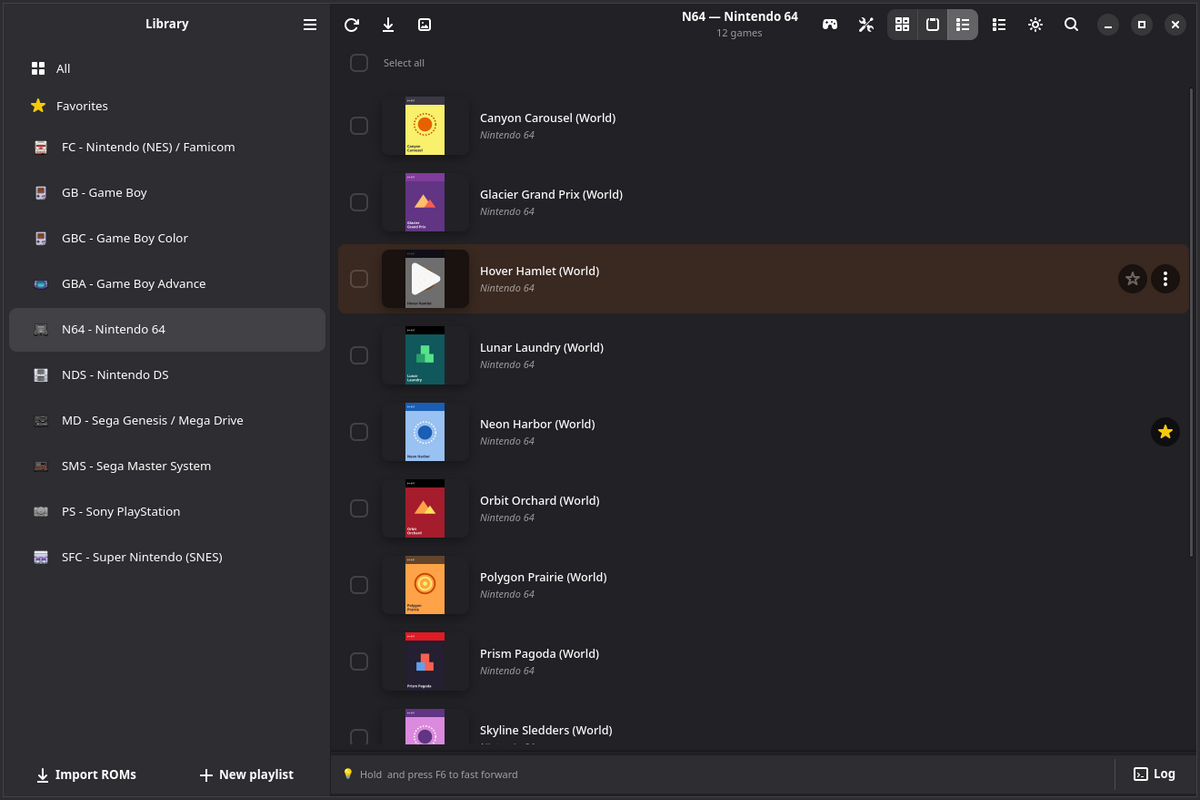
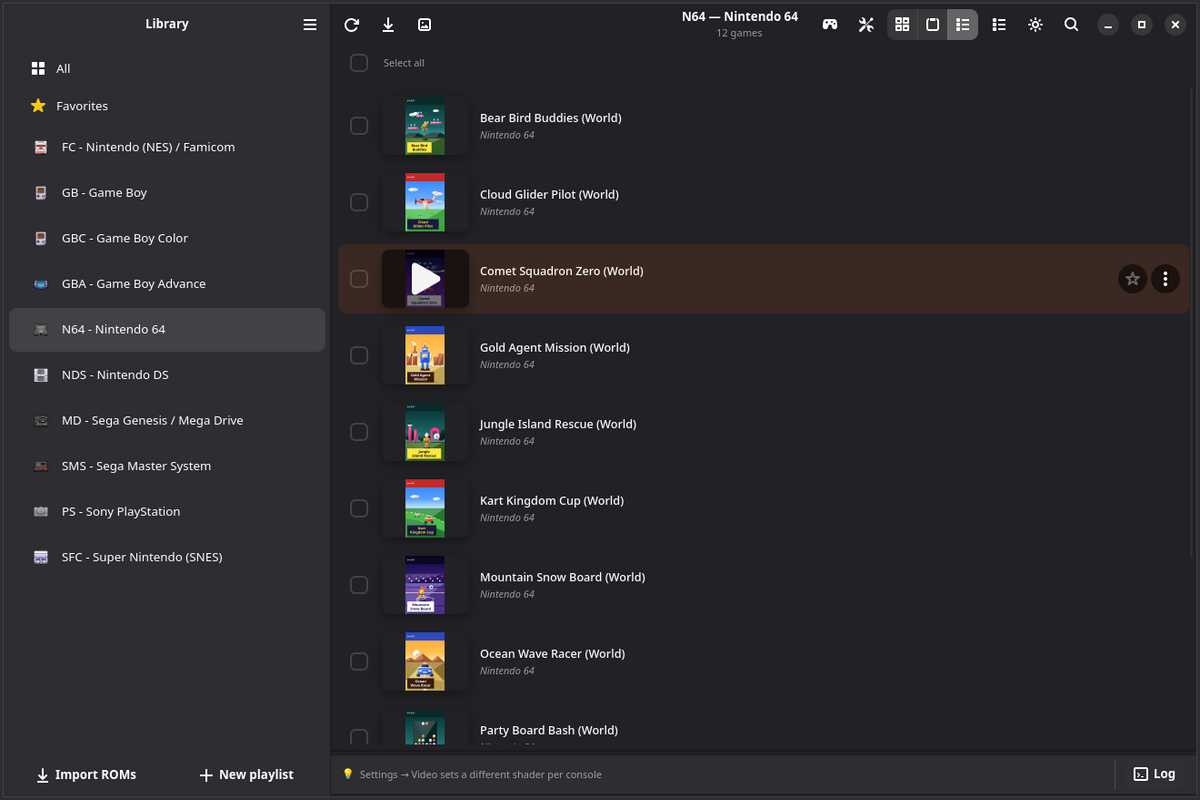
[issue-552] wip: re-shoot the README stills, carousel, cart wall and wizard

diff --git a/docs/de/index.html b/docs/de/index.html
@@ -1865,10 +1865,10 @@ flatpak install -y openemux io.github.guilhermefeitosa66.OpenEmux</code></pre>
       if (!wall) return;
       // Cartridge renders are 400 px wide; ratio = width / height.
       var CONSOLES = {
-        gba: { ratio: 400 / 230, games: ["acorn-arcade", "basalt-bells", "brass-beetles", "cactus-courier", "chalk-comets", "driftwood-diaries", "fennel-fields", "glass-canyon", "gondola-gambit", "hollow-harp", "ivy-ironworks", "kite-kingdom", "lemon-lightning", "lychee-lane", "maple-mosaic", "moss-knight", "nimbus-noodles", "pixel-pantry", "plum-parade", "pocket-planetarium", "pumice-patrol", "raincoat-rangers", "ripple-runners", "saltmarsh-sprint", "sorrel-speedway", "sparrow-signal", "tangerine-tides", "teacup-tempest", "tinker-tram", "velvet-vortex"] },
-        sfc: { ratio: 400 / 255, games: ["biscuit-brigade", "cinder-bay", "clockwork-orchard", "cobalt-caravan", "copper-lighthouse", "ferris-fortress", "granite-garden", "harbor-hopscotch", "hazel-hollow", "juniper-station", "kettle-knights", "lagoon-lullaby", "lantern-keep", "mango-monsoon", "marble-meadow-rally", "meadow-mechanic", "orchard-siege", "paprika-pass", "pebble-patrol", "puddle-pilots", "rooftop-regatta", "saffron-skyway", "spindle-spire", "sundial-saga", "thimble-quest", "tundra-tailors", "turnip-tactics", "velvet-glacier", "walnut-wanderers", "willow-circuit"] },
-        n64: { ratio: 400 / 257, games: ["canyon-carousel", "glacier-grand-prix", "hover-hamlet", "lunar-laundry", "neon-harbor", "orbit-orchard", "polygon-prairie", "prism-pagoda", "skyline-sledders", "thunder-teapot", "velvet-voltage", "zephyr-zoo"] },
-        md: { ratio: 400 / 271, games: ["blast-bayou", "chrome-canyon", "granite-gale", "harbor-havoc", "iron-iguana", "magma-mailman", "nitro-nectar", "rapid-reef", "static-sunset", "tidepool-racers", "turbo-tortoise", "voltage-valley"] }
+        gba: { ratio: 400 / 230, games: ["alien-ninja-squad", "anime-card-duel", "baseball-bash-kids", "bounce-ball-hero", "bubble-town-pop", "castle-siege-tactics", "cosmic-fox-pilot", "crystal-sword-saga", "desert-raider-kid", "disco-robot-dance", "dragon-egg-ranger", "fire-fist-fury", "gem-mine-mania", "go-kart-galaxy", "hamster-ball-run", "hip-hop-step", "jet-ski-splash", "knight-of-hearts", "laser-ship-omega", "mud-truck-mayhem", "ninja-shadow-path", "pocket-karate-champ", "robot-arena-clash", "ski-slope-slalom", "space-cadet-zero", "street-kick-brawl", "super-kart-turbo", "swamp-witch-house", "tiny-wizard-trail", "zombie-night-out"] },
+        sfc: { ratio: 400 / 255, games: ["alien-planet-quest", "ancient-sword-legend", "beach-volley-stars", "blade-of-the-crystal", "boxing-ring-champ", "brawl-city-streets", "bubble-pop-parade", "desert-tank-strike", "dragon-sky-rider", "dungeon-party-quest", "forest-spirit-path", "galaxy-star-patrol", "gem-drop-frenzy", "golf-course-pro", "haunted-manor-night", "jungle-vine-swing", "kart-cup-grand-prix", "magic-boot-hopper", "mecha-pilot-zero", "ninja-twin-strike", "rhythm-drum-party", "robot-man-x", "sky-fortress-siege", "super-kart-buddies", "the-car-racing-game", "the-fighter-game", "time-knight-saga", "turbo-highway-run", "wizard-tower-tales", "zero-grav-speedster"] },
+        n64: { ratio: 400 / 257, games: ["bear-bird-buddies", "cloud-glider-pilot", "comet-squadron-zero", "gold-agent-mission", "jungle-island-rescue", "kart-kingdom-cup", "mountain-snow-board", "ocean-wave-racer", "party-board-bash", "super-plumber-man-3d", "the-wrestling-match", "turbo-pod-racer"] },
+        md: { ratio: 400 / 271, games: ["barbarian-axe-quest", "coast-road-cruiser", "cyber-ninja-revenge", "funky-alien-groove", "gridiron-smash", "hyper-space-fighter", "jungle-heli-strike", "mutant-tomato-panic", "rage-city-brawl", "sword-force-tactics", "the-fighter-game-ii", "turbo-cheetah-dash"] }
       };
       // Top to bottom. SNES and GBA are the front rows (big, bright, fast);
       // N64 and Mega Drive sit behind them at the edges. speed is px/s at full

diff --git a/docs/es/index.html b/docs/es/index.html
@@ -1863,10 +1863,10 @@ flatpak install -y openemux io.github.guilhermefeitosa66.OpenEmux</code></pre>
       if (!wall) return;
       // Cartridge renders are 400 px wide; ratio = width / height.
       var CONSOLES = {
-        gba: { ratio: 400 / 230, games: ["acorn-arcade", "basalt-bells", "brass-beetles", "cactus-courier", "chalk-comets", "driftwood-diaries", "fennel-fields", "glass-canyon", "gondola-gambit", "hollow-harp", "ivy-ironworks", "kite-kingdom", "lemon-lightning", "lychee-lane", "maple-mosaic", "moss-knight", "nimbus-noodles", "pixel-pantry", "plum-parade", "pocket-planetarium", "pumice-patrol", "raincoat-rangers", "ripple-runners", "saltmarsh-sprint", "sorrel-speedway", "sparrow-signal", "tangerine-tides", "teacup-tempest", "tinker-tram", "velvet-vortex"] },
-        sfc: { ratio: 400 / 255, games: ["biscuit-brigade", "cinder-bay", "clockwork-orchard", "cobalt-caravan", "copper-lighthouse", "ferris-fortress", "granite-garden", "harbor-hopscotch", "hazel-hollow", "juniper-station", "kettle-knights", "lagoon-lullaby", "lantern-keep", "mango-monsoon", "marble-meadow-rally", "meadow-mechanic", "orchard-siege", "paprika-pass", "pebble-patrol", "puddle-pilots", "rooftop-regatta", "saffron-skyway", "spindle-spire", "sundial-saga", "thimble-quest", "tundra-tailors", "turnip-tactics", "velvet-glacier", "walnut-wanderers", "willow-circuit"] },
-        n64: { ratio: 400 / 257, games: ["canyon-carousel", "glacier-grand-prix", "hover-hamlet", "lunar-laundry", "neon-harbor", "orbit-orchard", "polygon-prairie", "prism-pagoda", "skyline-sledders", "thunder-teapot", "velvet-voltage", "zephyr-zoo"] },
-        md: { ratio: 400 / 271, games: ["blast-bayou", "chrome-canyon", "granite-gale", "harbor-havoc", "iron-iguana", "magma-mailman", "nitro-nectar", "rapid-reef", "static-sunset", "tidepool-racers", "turbo-tortoise", "voltage-valley"] }
+        gba: { ratio: 400 / 230, games: ["alien-ninja-squad", "anime-card-duel", "baseball-bash-kids", "bounce-ball-hero", "bubble-town-pop", "castle-siege-tactics", "cosmic-fox-pilot", "crystal-sword-saga", "desert-raider-kid", "disco-robot-dance", "dragon-egg-ranger", "fire-fist-fury", "gem-mine-mania", "go-kart-galaxy", "hamster-ball-run", "hip-hop-step", "jet-ski-splash", "knight-of-hearts", "laser-ship-omega", "mud-truck-mayhem", "ninja-shadow-path", "pocket-karate-champ", "robot-arena-clash", "ski-slope-slalom", "space-cadet-zero", "street-kick-brawl", "super-kart-turbo", "swamp-witch-house", "tiny-wizard-trail", "zombie-night-out"] },
+        sfc: { ratio: 400 / 255, games: ["alien-planet-quest", "ancient-sword-legend", "beach-volley-stars", "blade-of-the-crystal", "boxing-ring-champ", "brawl-city-streets", "bubble-pop-parade", "desert-tank-strike", "dragon-sky-rider", "dungeon-party-quest", "forest-spirit-path", "galaxy-star-patrol", "gem-drop-frenzy", "golf-course-pro", "haunted-manor-night", "jungle-vine-swing", "kart-cup-grand-prix", "magic-boot-hopper", "mecha-pilot-zero", "ninja-twin-strike", "rhythm-drum-party", "robot-man-x", "sky-fortress-siege", "super-kart-buddies", "the-car-racing-game", "the-fighter-game", "time-knight-saga", "turbo-highway-run", "wizard-tower-tales", "zero-grav-speedster"] },
+        n64: { ratio: 400 / 257, games: ["bear-bird-buddies", "cloud-glider-pilot", "comet-squadron-zero", "gold-agent-mission", "jungle-island-rescue", "kart-kingdom-cup", "mountain-snow-board", "ocean-wave-racer", "party-board-bash", "super-plumber-man-3d", "the-wrestling-match", "turbo-pod-racer"] },
+        md: { ratio: 400 / 271, games: ["barbarian-axe-quest", "coast-road-cruiser", "cyber-ninja-revenge", "funky-alien-groove", "gridiron-smash", "hyper-space-fighter", "jungle-heli-strike", "mutant-tomato-panic", "rage-city-brawl", "sword-force-tactics", "the-fighter-game-ii", "turbo-cheetah-dash"] }
       };
       // Top to bottom. SNES and GBA are the front rows (big, bright, fast);
       // N64 and Mega Drive sit behind them at the edges. speed is px/s at full

diff --git a/docs/fr/index.html b/docs/fr/index.html
@@ -1864,10 +1864,10 @@ flatpak install -y openemux io.github.guilhermefeitosa66.OpenEmux</code></pre>
       if (!wall) return;
       // Cartridge renders are 400 px wide; ratio = width / height.
       var CONSOLES = {
-        gba: { ratio: 400 / 230, games: ["acorn-arcade", "basalt-bells", "brass-beetles", "cactus-courier", "chalk-comets", "driftwood-diaries", "fennel-fields", "glass-canyon", "gondola-gambit", "hollow-harp", "ivy-ironworks", "kite-kingdom", "lemon-lightning", "lychee-lane", "maple-mosaic", "moss-knight", "nimbus-noodles", "pixel-pantry", "plum-parade", "pocket-planetarium", "pumice-patrol", "raincoat-rangers", "ripple-runners", "saltmarsh-sprint", "sorrel-speedway", "sparrow-signal", "tangerine-tides", "teacup-tempest", "tinker-tram", "velvet-vortex"] },
-        sfc: { ratio: 400 / 255, games: ["biscuit-brigade", "cinder-bay", "clockwork-orchard", "cobalt-caravan", "copper-lighthouse", "ferris-fortress", "granite-garden", "harbor-hopscotch", "hazel-hollow", "juniper-station", "kettle-knights", "lagoon-lullaby", "lantern-keep", "mango-monsoon", "marble-meadow-rally", "meadow-mechanic", "orchard-siege", "paprika-pass", "pebble-patrol", "puddle-pilots", "rooftop-regatta", "saffron-skyway", "spindle-spire", "sundial-saga", "thimble-quest", "tundra-tailors", "turnip-tactics", "velvet-glacier", "walnut-wanderers", "willow-circuit"] },
-        n64: { ratio: 400 / 257, games: ["canyon-carousel", "glacier-grand-prix", "hover-hamlet", "lunar-laundry", "neon-harbor", "orbit-orchard", "polygon-prairie", "prism-pagoda", "skyline-sledders", "thunder-teapot", "velvet-voltage", "zephyr-zoo"] },
-        md: { ratio: 400 / 271, games: ["blast-bayou", "chrome-canyon", "granite-gale", "harbor-havoc", "iron-iguana", "magma-mailman", "nitro-nectar", "rapid-reef", "static-sunset", "tidepool-racers", "turbo-tortoise", "voltage-valley"] }
+        gba: { ratio: 400 / 230, games: ["alien-ninja-squad", "anime-card-duel", "baseball-bash-kids", "bounce-ball-hero", "bubble-town-pop", "castle-siege-tactics", "cosmic-fox-pilot", "crystal-sword-saga", "desert-raider-kid", "disco-robot-dance", "dragon-egg-ranger", "fire-fist-fury", "gem-mine-mania", "go-kart-galaxy", "hamster-ball-run", "hip-hop-step", "jet-ski-splash", "knight-of-hearts", "laser-ship-omega", "mud-truck-mayhem", "ninja-shadow-path", "pocket-karate-champ", "robot-arena-clash", "ski-slope-slalom", "space-cadet-zero", "street-kick-brawl", "super-kart-turbo", "swamp-witch-house", "tiny-wizard-trail", "zombie-night-out"] },
+        sfc: { ratio: 400 / 255, games: ["alien-planet-quest", "ancient-sword-legend", "beach-volley-stars", "blade-of-the-crystal", "boxing-ring-champ", "brawl-city-streets", "bubble-pop-parade", "desert-tank-strike", "dragon-sky-rider", "dungeon-party-quest", "forest-spirit-path", "galaxy-star-patrol", "gem-drop-frenzy", "golf-course-pro", "haunted-manor-night", "jungle-vine-swing", "kart-cup-grand-prix", "magic-boot-hopper", "mecha-pilot-zero", "ninja-twin-strike", "rhythm-drum-party", "robot-man-x", "sky-fortress-siege", "super-kart-buddies", "the-car-racing-game", "the-fighter-game", "time-knight-saga", "turbo-highway-run", "wizard-tower-tales", "zero-grav-speedster"] },
+        n64: { ratio: 400 / 257, games: ["bear-bird-buddies", "cloud-glider-pilot", "comet-squadron-zero", "gold-agent-mission", "jungle-island-rescue", "kart-kingdom-cup", "mountain-snow-board", "ocean-wave-racer", "party-board-bash", "super-plumber-man-3d", "the-wrestling-match", "turbo-pod-racer"] },
+        md: { ratio: 400 / 271, games: ["barbarian-axe-quest", "coast-road-cruiser", "cyber-ninja-revenge", "funky-alien-groove", "gridiron-smash", "hyper-space-fighter", "jungle-heli-strike", "mutant-tomato-panic", "rage-city-brawl", "sword-force-tactics", "the-fighter-game-ii", "turbo-cheetah-dash"] }
       };
       // Top to bottom. SNES and GBA are the front rows (big, bright, fast);
       // N64 and Mega Drive sit behind them at the edges. speed is px/s at full

diff --git a/docs/index.html b/docs/index.html
@@ -1863,10 +1863,10 @@ flatpak install -y openemux io.github.guilhermefeitosa66.OpenEmux</code></pre>
       if (!wall) return;
       // Cartridge renders are 400 px wide; ratio = width / height.
       var CONSOLES = {
-        gba: { ratio: 400 / 230, games: ["acorn-arcade", "basalt-bells", "brass-beetles", "cactus-courier", "chalk-comets", "driftwood-diaries", "fennel-fields", "glass-canyon", "gondola-gambit", "hollow-harp", "ivy-ironworks", "kite-kingdom", "lemon-lightning", "lychee-lane", "maple-mosaic", "moss-knight", "nimbus-noodles", "pixel-pantry", "plum-parade", "pocket-planetarium", "pumice-patrol", "raincoat-rangers", "ripple-runners", "saltmarsh-sprint", "sorrel-speedway", "sparrow-signal", "tangerine-tides", "teacup-tempest", "tinker-tram", "velvet-vortex"] },
-        sfc: { ratio: 400 / 255, games: ["biscuit-brigade", "cinder-bay", "clockwork-orchard", "cobalt-caravan", "copper-lighthouse", "ferris-fortress", "granite-garden", "harbor-hopscotch", "hazel-hollow", "juniper-station", "kettle-knights", "lagoon-lullaby", "lantern-keep", "mango-monsoon", "marble-meadow-rally", "meadow-mechanic", "orchard-siege", "paprika-pass", "pebble-patrol", "puddle-pilots", "rooftop-regatta", "saffron-skyway", "spindle-spire", "sundial-saga", "thimble-quest", "tundra-tailors", "turnip-tactics", "velvet-glacier", "walnut-wanderers", "willow-circuit"] },
-        n64: { ratio: 400 / 257, games: ["canyon-carousel", "glacier-grand-prix", "hover-hamlet", "lunar-laundry", "neon-harbor", "orbit-orchard", "polygon-prairie", "prism-pagoda", "skyline-sledders", "thunder-teapot", "velvet-voltage", "zephyr-zoo"] },
-        md: { ratio: 400 / 271, games: ["blast-bayou", "chrome-canyon", "granite-gale", "harbor-havoc", "iron-iguana", "magma-mailman", "nitro-nectar", "rapid-reef", "static-sunset", "tidepool-racers", "turbo-tortoise", "voltage-valley"] }
+        gba: { ratio: 400 / 230, games: ["alien-ninja-squad", "anime-card-duel", "baseball-bash-kids", "bounce-ball-hero", "bubble-town-pop", "castle-siege-tactics", "cosmic-fox-pilot", "crystal-sword-saga", "desert-raider-kid", "disco-robot-dance", "dragon-egg-ranger", "fire-fist-fury", "gem-mine-mania", "go-kart-galaxy", "hamster-ball-run", "hip-hop-step", "jet-ski-splash", "knight-of-hearts", "laser-ship-omega", "mud-truck-mayhem", "ninja-shadow-path", "pocket-karate-champ", "robot-arena-clash", "ski-slope-slalom", "space-cadet-zero", "street-kick-brawl", "super-kart-turbo", "swamp-witch-house", "tiny-wizard-trail", "zombie-night-out"] },
+        sfc: { ratio: 400 / 255, games: ["alien-planet-quest", "ancient-sword-legend", "beach-volley-stars", "blade-of-the-crystal", "boxing-ring-champ", "brawl-city-streets", "bubble-pop-parade", "desert-tank-strike", "dragon-sky-rider", "dungeon-party-quest", "forest-spirit-path", "galaxy-star-patrol", "gem-drop-frenzy", "golf-course-pro", "haunted-manor-night", "jungle-vine-swing", "kart-cup-grand-prix", "magic-boot-hopper", "mecha-pilot-zero", "ninja-twin-strike", "rhythm-drum-party", "robot-man-x", "sky-fortress-siege", "super-kart-buddies", "the-car-racing-game", "the-fighter-game", "time-knight-saga", "turbo-highway-run", "wizard-tower-tales", "zero-grav-speedster"] },
+        n64: { ratio: 400 / 257, games: ["bear-bird-buddies", "cloud-glider-pilot", "comet-squadron-zero", "gold-agent-mission", "jungle-island-rescue", "kart-kingdom-cup", "mountain-snow-board", "ocean-wave-racer", "party-board-bash", "super-plumber-man-3d", "the-wrestling-match", "turbo-pod-racer"] },
+        md: { ratio: 400 / 271, games: ["barbarian-axe-quest", "coast-road-cruiser", "cyber-ninja-revenge", "funky-alien-groove", "gridiron-smash", "hyper-space-fighter", "jungle-heli-strike", "mutant-tomato-panic", "rage-city-brawl", "sword-force-tactics", "the-fighter-game-ii", "turbo-cheetah-dash"] }
       };
       // Top to bottom. SNES and GBA are the front rows (big, bright, fast);
       // N64 and Mega Drive sit behind them at the edges. speed is px/s at full

diff --git a/docs/ja/index.html b/docs/ja/index.html
@@ -1863,10 +1863,10 @@ flatpak install -y openemux io.github.guilhermefeitosa66.OpenEmux</code></pre>
       if (!wall) return;
       // Cartridge renders are 400 px wide; ratio = width / height.
       var CONSOLES = {
-        gba: { ratio: 400 / 230, games: ["acorn-arcade", "basalt-bells", "brass-beetles", "cactus-courier", "chalk-comets", "driftwood-diaries", "fennel-fields", "glass-canyon", "gondola-gambit", "hollow-harp", "ivy-ironworks", "kite-kingdom", "lemon-lightning", "lychee-lane", "maple-mosaic", "moss-knight", "nimbus-noodles", "pixel-pantry", "plum-parade", "pocket-planetarium", "pumice-patrol", "raincoat-rangers", "ripple-runners", "saltmarsh-sprint", "sorrel-speedway", "sparrow-signal", "tangerine-tides", "teacup-tempest", "tinker-tram", "velvet-vortex"] },
-        sfc: { ratio: 400 / 255, games: ["biscuit-brigade", "cinder-bay", "clockwork-orchard", "cobalt-caravan", "copper-lighthouse", "ferris-fortress", "granite-garden", "harbor-hopscotch", "hazel-hollow", "juniper-station", "kettle-knights", "lagoon-lullaby", "lantern-keep", "mango-monsoon", "marble-meadow-rally", "meadow-mechanic", "orchard-siege", "paprika-pass", "pebble-patrol", "puddle-pilots", "rooftop-regatta", "saffron-skyway", "spindle-spire", "sundial-saga", "thimble-quest", "tundra-tailors", "turnip-tactics", "velvet-glacier", "walnut-wanderers", "willow-circuit"] },
-        n64: { ratio: 400 / 257, games: ["canyon-carousel", "glacier-grand-prix", "hover-hamlet", "lunar-laundry", "neon-harbor", "orbit-orchard", "polygon-prairie", "prism-pagoda", "skyline-sledders", "thunder-teapot", "velvet-voltage", "zephyr-zoo"] },
-        md: { ratio: 400 / 271, games: ["blast-bayou", "chrome-canyon", "granite-gale", "harbor-havoc", "iron-iguana", "magma-mailman", "nitro-nectar", "rapid-reef", "static-sunset", "tidepool-racers", "turbo-tortoise", "voltage-valley"] }
+        gba: { ratio: 400 / 230, games: ["alien-ninja-squad", "anime-card-duel", "baseball-bash-kids", "bounce-ball-hero", "bubble-town-pop", "castle-siege-tactics", "cosmic-fox-pilot", "crystal-sword-saga", "desert-raider-kid", "disco-robot-dance", "dragon-egg-ranger", "fire-fist-fury", "gem-mine-mania", "go-kart-galaxy", "hamster-ball-run", "hip-hop-step", "jet-ski-splash", "knight-of-hearts", "laser-ship-omega", "mud-truck-mayhem", "ninja-shadow-path", "pocket-karate-champ", "robot-arena-clash", "ski-slope-slalom", "space-cadet-zero", "street-kick-brawl", "super-kart-turbo", "swamp-witch-house", "tiny-wizard-trail", "zombie-night-out"] },
+        sfc: { ratio: 400 / 255, games: ["alien-planet-quest", "ancient-sword-legend", "beach-volley-stars", "blade-of-the-crystal", "boxing-ring-champ", "brawl-city-streets", "bubble-pop-parade", "desert-tank-strike", "dragon-sky-rider", "dungeon-party-quest", "forest-spirit-path", "galaxy-star-patrol", "gem-drop-frenzy", "golf-course-pro", "haunted-manor-night", "jungle-vine-swing", "kart-cup-grand-prix", "magic-boot-hopper", "mecha-pilot-zero", "ninja-twin-strike", "rhythm-drum-party", "robot-man-x", "sky-fortress-siege", "super-kart-buddies", "the-car-racing-game", "the-fighter-game", "time-knight-saga", "turbo-highway-run", "wizard-tower-tales", "zero-grav-speedster"] },
+        n64: { ratio: 400 / 257, games: ["bear-bird-buddies", "cloud-glider-pilot", "comet-squadron-zero", "gold-agent-mission", "jungle-island-rescue", "kart-kingdom-cup", "mountain-snow-board", "ocean-wave-racer", "party-board-bash", "super-plumber-man-3d", "the-wrestling-match", "turbo-pod-racer"] },
+        md: { ratio: 400 / 271, games: ["barbarian-axe-quest", "coast-road-cruiser", "cyber-ninja-revenge", "funky-alien-groove", "gridiron-smash", "hyper-space-fighter", "jungle-heli-strike", "mutant-tomato-panic", "rage-city-brawl", "sword-force-tactics", "the-fighter-game-ii", "turbo-cheetah-dash"] }
       };
       // Top to bottom. SNES and GBA are the front rows (big, bright, fast);
       // N64 and Mega Drive sit behind them at the edges. speed is px/s at full

diff --git a/docs/pt-br/index.html b/docs/pt-br/index.html
@@ -1864,10 +1864,10 @@ flatpak install -y openemux io.github.guilhermefeitosa66.OpenEmux</code></pre>
       if (!wall) return;
       // Cartridge renders are 400 px wide; ratio = width / height.
       var CONSOLES = {
-        gba: { ratio: 400 / 230, games: ["acorn-arcade", "basalt-bells", "brass-beetles", "cactus-courier", "chalk-comets", "driftwood-diaries", "fennel-fields", "glass-canyon", "gondola-gambit", "hollow-harp", "ivy-ironworks", "kite-kingdom", "lemon-lightning", "lychee-lane", "maple-mosaic", "moss-knight", "nimbus-noodles", "pixel-pantry", "plum-parade", "pocket-planetarium", "pumice-patrol", "raincoat-rangers", "ripple-runners", "saltmarsh-sprint", "sorrel-speedway", "sparrow-signal", "tangerine-tides", "teacup-tempest", "tinker-tram", "velvet-vortex"] },
-        sfc: { ratio: 400 / 255, games: ["biscuit-brigade", "cinder-bay", "clockwork-orchard", "cobalt-caravan", "copper-lighthouse", "ferris-fortress", "granite-garden", "harbor-hopscotch", "hazel-hollow", "juniper-station", "kettle-knights", "lagoon-lullaby", "lantern-keep", "mango-monsoon", "marble-meadow-rally", "meadow-mechanic", "orchard-siege", "paprika-pass", "pebble-patrol", "puddle-pilots", "rooftop-regatta", "saffron-skyway", "spindle-spire", "sundial-saga", "thimble-quest", "tundra-tailors", "turnip-tactics", "velvet-glacier", "walnut-wanderers", "willow-circuit"] },
-        n64: { ratio: 400 / 257, games: ["canyon-carousel", "glacier-grand-prix", "hover-hamlet", "lunar-laundry", "neon-harbor", "orbit-orchard", "polygon-prairie", "prism-pagoda", "skyline-sledders", "thunder-teapot", "velvet-voltage", "zephyr-zoo"] },
-        md: { ratio: 400 / 271, games: ["blast-bayou", "chrome-canyon", "granite-gale", "harbor-havoc", "iron-iguana", "magma-mailman", "nitro-nectar", "rapid-reef", "static-sunset", "tidepool-racers", "turbo-tortoise", "voltage-valley"] }
+        gba: { ratio: 400 / 230, games: ["alien-ninja-squad", "anime-card-duel", "baseball-bash-kids", "bounce-ball-hero", "bubble-town-pop", "castle-siege-tactics", "cosmic-fox-pilot", "crystal-sword-saga", "desert-raider-kid", "disco-robot-dance", "dragon-egg-ranger", "fire-fist-fury", "gem-mine-mania", "go-kart-galaxy", "hamster-ball-run", "hip-hop-step", "jet-ski-splash", "knight-of-hearts", "laser-ship-omega", "mud-truck-mayhem", "ninja-shadow-path", "pocket-karate-champ", "robot-arena-clash", "ski-slope-slalom", "space-cadet-zero", "street-kick-brawl", "super-kart-turbo", "swamp-witch-house", "tiny-wizard-trail", "zombie-night-out"] },
+        sfc: { ratio: 400 / 255, games: ["alien-planet-quest", "ancient-sword-legend", "beach-volley-stars", "blade-of-the-crystal", "boxing-ring-champ", "brawl-city-streets", "bubble-pop-parade", "desert-tank-strike", "dragon-sky-rider", "dungeon-party-quest", "forest-spirit-path", "galaxy-star-patrol", "gem-drop-frenzy", "golf-course-pro", "haunted-manor-night", "jungle-vine-swing", "kart-cup-grand-prix", "magic-boot-hopper", "mecha-pilot-zero", "ninja-twin-strike", "rhythm-drum-party", "robot-man-x", "sky-fortress-siege", "super-kart-buddies", "the-car-racing-game", "the-fighter-game", "time-knight-saga", "turbo-highway-run", "wizard-tower-tales", "zero-grav-speedster"] },
+        n64: { ratio: 400 / 257, games: ["bear-bird-buddies", "cloud-glider-pilot", "comet-squadron-zero", "gold-agent-mission", "jungle-island-rescue", "kart-kingdom-cup", "mountain-snow-board", "ocean-wave-racer", "party-board-bash", "super-plumber-man-3d", "the-wrestling-match", "turbo-pod-racer"] },
+        md: { ratio: 400 / 271, games: ["barbarian-axe-quest", "coast-road-cruiser", "cyber-ninja-revenge", "funky-alien-groove", "gridiron-smash", "hyper-space-fighter", "jungle-heli-strike", "mutant-tomato-panic", "rage-city-brawl", "sword-force-tactics", "the-fighter-game-ii", "turbo-cheetah-dash"] }
       };
       // Top to bottom. SNES and GBA are the front rows (big, bright, fast);
       // N64 and Mega Drive sit behind them at the edges. speed is px/s at full

diff --git a/docs/ta/index.html b/docs/ta/index.html
@@ -1863,10 +1863,10 @@ flatpak install -y openemux io.github.guilhermefeitosa66.OpenEmux</code></pre>
       if (!wall) return;
       // Cartridge renders are 400 px wide; ratio = width / height.
       var CONSOLES = {
-        gba: { ratio: 400 / 230, games: ["acorn-arcade", "basalt-bells", "brass-beetles", "cactus-courier", "chalk-comets", "driftwood-diaries", "fennel-fields", "glass-canyon", "gondola-gambit", "hollow-harp", "ivy-ironworks", "kite-kingdom", "lemon-lightning", "lychee-lane", "maple-mosaic", "moss-knight", "nimbus-noodles", "pixel-pantry", "plum-parade", "pocket-planetarium", "pumice-patrol", "raincoat-rangers", "ripple-runners", "saltmarsh-sprint", "sorrel-speedway", "sparrow-signal", "tangerine-tides", "teacup-tempest", "tinker-tram", "velvet-vortex"] },
-        sfc: { ratio: 400 / 255, games: ["biscuit-brigade", "cinder-bay", "clockwork-orchard", "cobalt-caravan", "copper-lighthouse", "ferris-fortress", "granite-garden", "harbor-hopscotch", "hazel-hollow", "juniper-station", "kettle-knights", "lagoon-lullaby", "lantern-keep", "mango-monsoon", "marble-meadow-rally", "meadow-mechanic", "orchard-siege", "paprika-pass", "pebble-patrol", "puddle-pilots", "rooftop-regatta", "saffron-skyway", "spindle-spire", "sundial-saga", "thimble-quest", "tundra-tailors", "turnip-tactics", "velvet-glacier", "walnut-wanderers", "willow-circuit"] },
-        n64: { ratio: 400 / 257, games: ["canyon-carousel", "glacier-grand-prix", "hover-hamlet", "lunar-laundry", "neon-harbor", "orbit-orchard", "polygon-prairie", "prism-pagoda", "skyline-sledders", "thunder-teapot", "velvet-voltage", "zephyr-zoo"] },
-        md: { ratio: 400 / 271, games: ["blast-bayou", "chrome-canyon", "granite-gale", "harbor-havoc", "iron-iguana", "magma-mailman", "nitro-nectar", "rapid-reef", "static-sunset", "tidepool-racers", "turbo-tortoise", "voltage-valley"] }
+        gba: { ratio: 400 / 230, games: ["alien-ninja-squad", "anime-card-duel", "baseball-bash-kids", "bounce-ball-hero", "bubble-town-pop", "castle-siege-tactics", "cosmic-fox-pilot", "crystal-sword-saga", "desert-raider-kid", "disco-robot-dance", "dragon-egg-ranger", "fire-fist-fury", "gem-mine-mania", "go-kart-galaxy", "hamster-ball-run", "hip-hop-step", "jet-ski-splash", "knight-of-hearts", "laser-ship-omega", "mud-truck-mayhem", "ninja-shadow-path", "pocket-karate-champ", "robot-arena-clash", "ski-slope-slalom", "space-cadet-zero", "street-kick-brawl", "super-kart-turbo", "swamp-witch-house", "tiny-wizard-trail", "zombie-night-out"] },
+        sfc: { ratio: 400 / 255, games: ["alien-planet-quest", "ancient-sword-legend", "beach-volley-stars", "blade-of-the-crystal", "boxing-ring-champ", "brawl-city-streets", "bubble-pop-parade", "desert-tank-strike", "dragon-sky-rider", "dungeon-party-quest", "forest-spirit-path", "galaxy-star-patrol", "gem-drop-frenzy", "golf-course-pro", "haunted-manor-night", "jungle-vine-swing", "kart-cup-grand-prix", "magic-boot-hopper", "mecha-pilot-zero", "ninja-twin-strike", "rhythm-drum-party", "robot-man-x", "sky-fortress-siege", "super-kart-buddies", "the-car-racing-game", "the-fighter-game", "time-knight-saga", "turbo-highway-run", "wizard-tower-tales", "zero-grav-speedster"] },
+        n64: { ratio: 400 / 257, games: ["bear-bird-buddies", "cloud-glider-pilot", "comet-squadron-zero", "gold-agent-mission", "jungle-island-rescue", "kart-kingdom-cup", "mountain-snow-board", "ocean-wave-racer", "party-board-bash", "super-plumber-man-3d", "the-wrestling-match", "turbo-pod-racer"] },
+        md: { ratio: 400 / 271, games: ["barbarian-axe-quest", "coast-road-cruiser", "cyber-ninja-revenge", "funky-alien-groove", "gridiron-smash", "hyper-space-fighter", "jungle-heli-strike", "mutant-tomato-panic", "rage-city-brawl", "sword-force-tactics", "the-fighter-game-ii", "turbo-cheetah-dash"] }
       };
       // Top to bottom. SNES and GBA are the front rows (big, bright, fast);
       // N64 and Mega Drive sit behind them at the edges. speed is px/s at full

diff --git a/docs/zh-cn/index.html b/docs/zh-cn/index.html
@@ -1863,10 +1863,10 @@ flatpak install -y openemux io.github.guilhermefeitosa66.OpenEmux</code></pre>
       if (!wall) return;
       // Cartridge renders are 400 px wide; ratio = width / height.
       var CONSOLES = {
-        gba: { ratio: 400 / 230, games: ["acorn-arcade", "basalt-bells", "brass-beetles", "cactus-courier", "chalk-comets", "driftwood-diaries", "fennel-fields", "glass-canyon", "gondola-gambit", "hollow-harp", "ivy-ironworks", "kite-kingdom", "lemon-lightning", "lychee-lane", "maple-mosaic", "moss-knight", "nimbus-noodles", "pixel-pantry", "plum-parade", "pocket-planetarium", "pumice-patrol", "raincoat-rangers", "ripple-runners", "saltmarsh-sprint", "sorrel-speedway", "sparrow-signal", "tangerine-tides", "teacup-tempest", "tinker-tram", "velvet-vortex"] },
-        sfc: { ratio: 400 / 255, games: ["biscuit-brigade", "cinder-bay", "clockwork-orchard", "cobalt-caravan", "copper-lighthouse", "ferris-fortress", "granite-garden", "harbor-hopscotch", "hazel-hollow", "juniper-station", "kettle-knights", "lagoon-lullaby", "lantern-keep", "mango-monsoon", "marble-meadow-rally", "meadow-mechanic", "orchard-siege", "paprika-pass", "pebble-patrol", "puddle-pilots", "rooftop-regatta", "saffron-skyway", "spindle-spire", "sundial-saga", "thimble-quest", "tundra-tailors", "turnip-tactics", "velvet-glacier", "walnut-wanderers", "willow-circuit"] },
-        n64: { ratio: 400 / 257, games: ["canyon-carousel", "glacier-grand-prix", "hover-hamlet", "lunar-laundry", "neon-harbor", "orbit-orchard", "polygon-prairie", "prism-pagoda", "skyline-sledders", "thunder-teapot", "velvet-voltage", "zephyr-zoo"] },
-        md: { ratio: 400 / 271, games: ["blast-bayou", "chrome-canyon", "granite-gale", "harbor-havoc", "iron-iguana", "magma-mailman", "nitro-nectar", "rapid-reef", "static-sunset", "tidepool-racers", "turbo-tortoise", "voltage-valley"] }
+        gba: { ratio: 400 / 230, games: ["alien-ninja-squad", "anime-card-duel", "baseball-bash-kids", "bounce-ball-hero", "bubble-town-pop", "castle-siege-tactics", "cosmic-fox-pilot", "crystal-sword-saga", "desert-raider-kid", "disco-robot-dance", "dragon-egg-ranger", "fire-fist-fury", "gem-mine-mania", "go-kart-galaxy", "hamster-ball-run", "hip-hop-step", "jet-ski-splash", "knight-of-hearts", "laser-ship-omega", "mud-truck-mayhem", "ninja-shadow-path", "pocket-karate-champ", "robot-arena-clash", "ski-slope-slalom", "space-cadet-zero", "street-kick-brawl", "super-kart-turbo", "swamp-witch-house", "tiny-wizard-trail", "zombie-night-out"] },
+        sfc: { ratio: 400 / 255, games: ["alien-planet-quest", "ancient-sword-legend", "beach-volley-stars", "blade-of-the-crystal", "boxing-ring-champ", "brawl-city-streets", "bubble-pop-parade", "desert-tank-strike", "dragon-sky-rider", "dungeon-party-quest", "forest-spirit-path", "galaxy-star-patrol", "gem-drop-frenzy", "golf-course-pro", "haunted-manor-night", "jungle-vine-swing", "kart-cup-grand-prix", "magic-boot-hopper", "mecha-pilot-zero", "ninja-twin-strike", "rhythm-drum-party", "robot-man-x", "sky-fortress-siege", "super-kart-buddies", "the-car-racing-game", "the-fighter-game", "time-knight-saga", "turbo-highway-run", "wizard-tower-tales", "zero-grav-speedster"] },
+        n64: { ratio: 400 / 257, games: ["bear-bird-buddies", "cloud-glider-pilot", "comet-squadron-zero", "gold-agent-mission", "jungle-island-rescue", "kart-kingdom-cup", "mountain-snow-board", "ocean-wave-racer", "party-board-bash", "super-plumber-man-3d", "the-wrestling-match", "turbo-pod-racer"] },
+        md: { ratio: 400 / 271, games: ["barbarian-axe-quest", "coast-road-cruiser", "cyber-ninja-revenge", "funky-alien-groove", "gridiron-smash", "hyper-space-fighter", "jungle-heli-strike", "mutant-tomato-panic", "rage-city-brawl", "sword-force-tactics", "the-fighter-game-ii", "turbo-cheetah-dash"] }
       };
       // Top to bottom. SNES and GBA are the front rows (big, bright, fast);
       // N64 and Mega Drive sit behind them at the edges. speed is px/s at full

diff --git a/site/page.html b/site/page.html
@@ -1790,10 +1790,10 @@ flatpak install -y openemux io.github.guilhermefeitosa66.OpenEmux</code></pre>
       if (!wall) return;
       // Cartridge renders are 400 px wide; ratio = width / height.
       var CONSOLES = {
-        gba: { ratio: 400 / 230, games: ["acorn-arcade", "basalt-bells", "brass-beetles", "cactus-courier", "chalk-comets", "driftwood-diaries", "fennel-fields", "glass-canyon", "gondola-gambit", "hollow-harp", "ivy-ironworks", "kite-kingdom", "lemon-lightning", "lychee-lane", "maple-mosaic", "moss-knight", "nimbus-noodles", "pixel-pantry", "plum-parade", "pocket-planetarium", "pumice-patrol", "raincoat-rangers", "ripple-runners", "saltmarsh-sprint", "sorrel-speedway", "sparrow-signal", "tangerine-tides", "teacup-tempest", "tinker-tram", "velvet-vortex"] },
-        sfc: { ratio: 400 / 255, games: ["biscuit-brigade", "cinder-bay", "clockwork-orchard", "cobalt-caravan", "copper-lighthouse", "ferris-fortress", "granite-garden", "harbor-hopscotch", "hazel-hollow", "juniper-station", "kettle-knights", "lagoon-lullaby", "lantern-keep", "mango-monsoon", "marble-meadow-rally", "meadow-mechanic", "orchard-siege", "paprika-pass", "pebble-patrol", "puddle-pilots", "rooftop-regatta", "saffron-skyway", "spindle-spire", "sundial-saga", "thimble-quest", "tundra-tailors", "turnip-tactics", "velvet-glacier", "walnut-wanderers", "willow-circuit"] },
-        n64: { ratio: 400 / 257, games: ["canyon-carousel", "glacier-grand-prix", "hover-hamlet", "lunar-laundry", "neon-harbor", "orbit-orchard", "polygon-prairie", "prism-pagoda", "skyline-sledders", "thunder-teapot", "velvet-voltage", "zephyr-zoo"] },
-        md: { ratio: 400 / 271, games: ["blast-bayou", "chrome-canyon", "granite-gale", "harbor-havoc", "iron-iguana", "magma-mailman", "nitro-nectar", "rapid-reef", "static-sunset", "tidepool-racers", "turbo-tortoise", "voltage-valley"] }
+        gba: { ratio: 400 / 230, games: ["alien-ninja-squad", "anime-card-duel", "baseball-bash-kids", "bounce-ball-hero", "bubble-town-pop", "castle-siege-tactics", "cosmic-fox-pilot", "crystal-sword-saga", "desert-raider-kid", "disco-robot-dance", "dragon-egg-ranger", "fire-fist-fury", "gem-mine-mania", "go-kart-galaxy", "hamster-ball-run", "hip-hop-step", "jet-ski-splash", "knight-of-hearts", "laser-ship-omega", "mud-truck-mayhem", "ninja-shadow-path", "pocket-karate-champ", "robot-arena-clash", "ski-slope-slalom", "space-cadet-zero", "street-kick-brawl", "super-kart-turbo", "swamp-witch-house", "tiny-wizard-trail", "zombie-night-out"] },
+        sfc: { ratio: 400 / 255, games: ["alien-planet-quest", "ancient-sword-legend", "beach-volley-stars", "blade-of-the-crystal", "boxing-ring-champ", "brawl-city-streets", "bubble-pop-parade", "desert-tank-strike", "dragon-sky-rider", "dungeon-party-quest", "forest-spirit-path", "galaxy-star-patrol", "gem-drop-frenzy", "golf-course-pro", "haunted-manor-night", "jungle-vine-swing", "kart-cup-grand-prix", "magic-boot-hopper", "mecha-pilot-zero", "ninja-twin-strike", "rhythm-drum-party", "robot-man-x", "sky-fortress-siege", "super-kart-buddies", "the-car-racing-game", "the-fighter-game", "time-knight-saga", "turbo-highway-run", "wizard-tower-tales", "zero-grav-speedster"] },
+        n64: { ratio: 400 / 257, games: ["bear-bird-buddies", "cloud-glider-pilot", "comet-squadron-zero", "gold-agent-mission", "jungle-island-rescue", "kart-kingdom-cup", "mountain-snow-board", "ocean-wave-racer", "party-board-bash", "super-plumber-man-3d", "the-wrestling-match", "turbo-pod-racer"] },
+        md: { ratio: 400 / 271, games: ["barbarian-axe-quest", "coast-road-cruiser", "cyber-ninja-revenge", "funky-alien-groove", "gridiron-smash", "hyper-space-fighter", "jungle-heli-strike", "mutant-tomato-panic", "rage-city-brawl", "sword-force-tactics", "the-fighter-game-ii", "turbo-cheetah-dash"] }
       };
       // Top to bottom. SNES and GBA are the front rows (big, bright, fast);
       // N64 and Mega Drive sit behind them at the edges. speed is px/s at full
